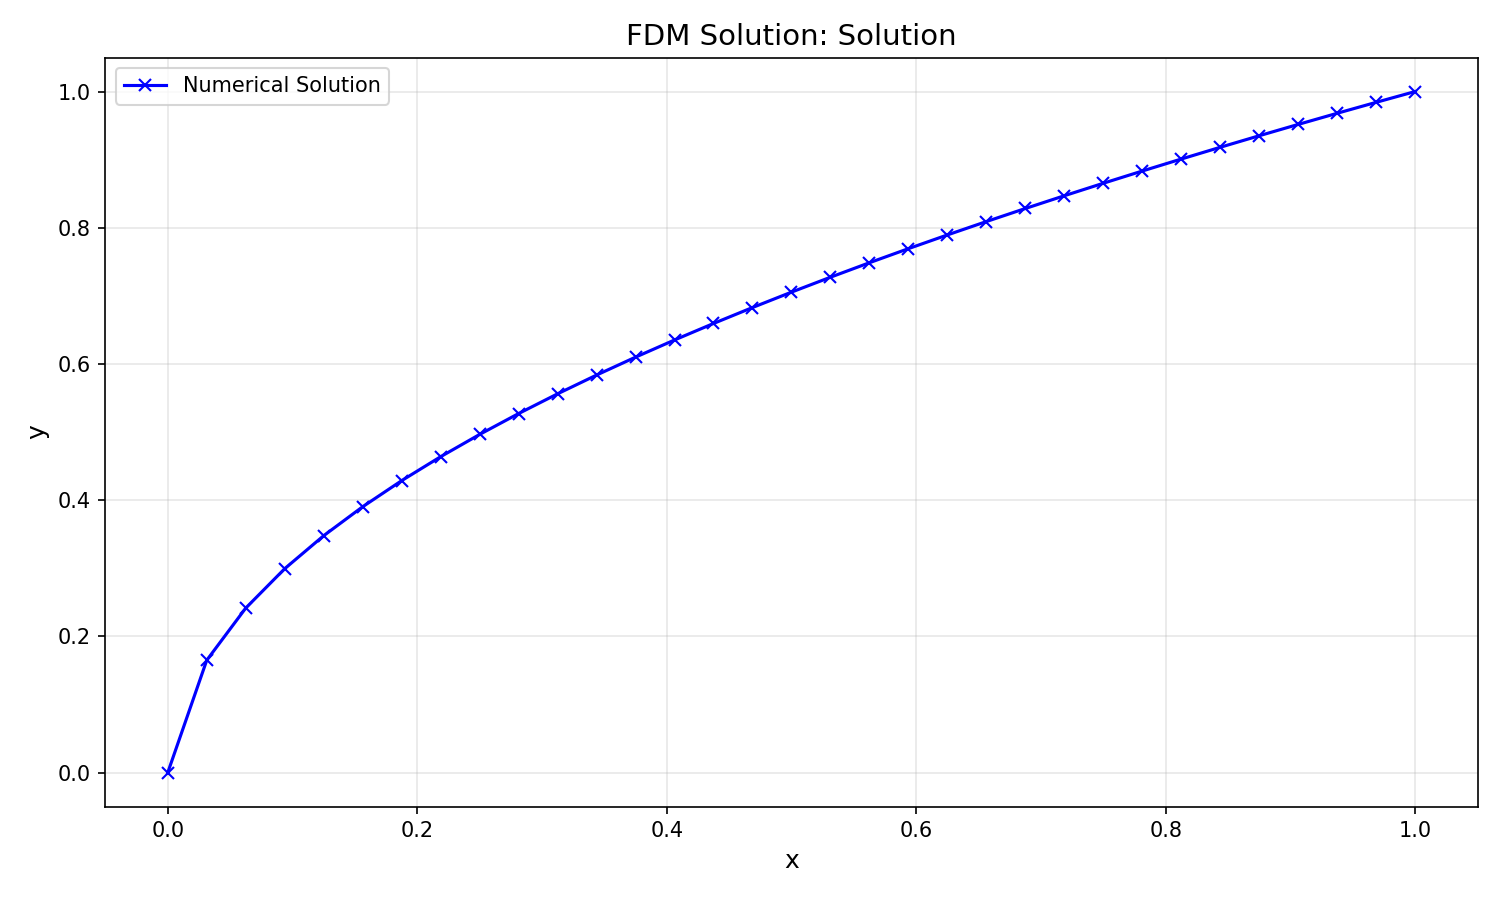
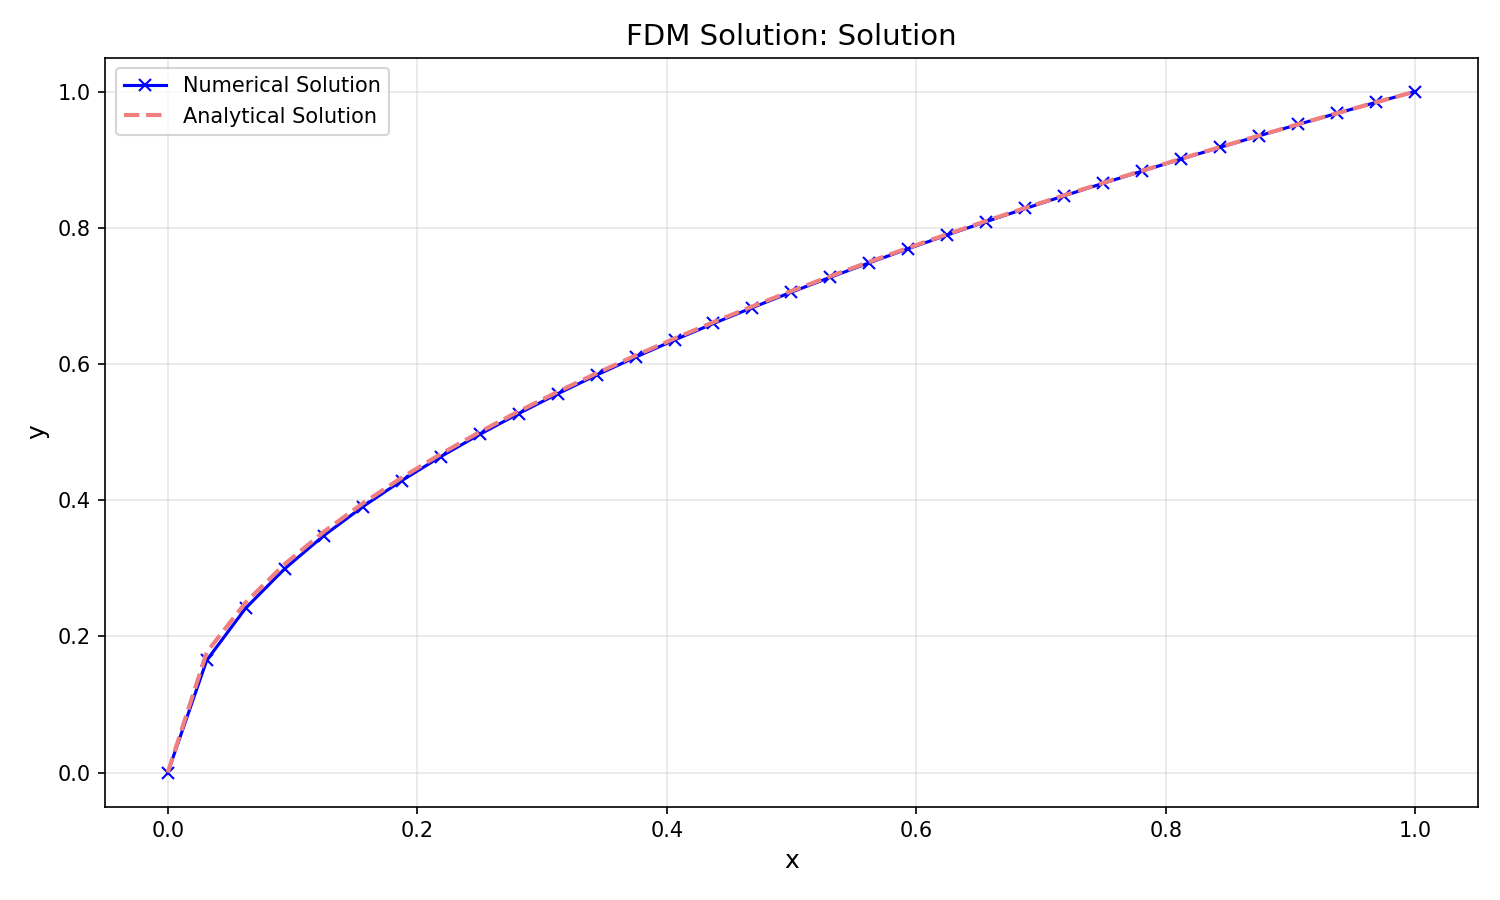
added approxiaation for Fy and Fyp

diff --git a/Project2/analysis/stability.py b/Project2/analysis/stability.py
@@ -6,7 +6,7 @@ from core.Residual import Residual
 from core.Jacobian import Jacobian
 from core.Function_Generator import Function_Generator
 from core.Boundary_Conditions import Boundary_Conditions
-
+from core.FDM_Solver import FDM_Solver
 
 class StabilitySolver:
     def __init__(self, F, Fy, Fyp, N, domain, BC, w0=None):
@@ -22,7 +22,14 @@ class StabilitySolver:
         self.x = np.linspace(a, b, self.N + 1)
         self.h = (b - a) / self.N
 
+        fdmsolver = FDM_Solver(N,domain,F, Fy, Fyp, BC)
         bc = Boundary_Conditions(BC)
+
+        if(Fy is None):
+            Fy = fdmsolver._approx_Fy
+        if(Fyp is None):
+            Fyp = fdmsolver._approx_Fyp
+
         self.left_bc_jac = bc.build_left_bc_jac(Fy, Fyp, self.x[0])
         self.right_bc_jac = bc.build_right_bc_jac(Fy, Fyp, self.x[-1])
         self.left_bc_res = bc.build_left_bc_res(F, self.x[0])
@@ -311,7 +318,7 @@ class StabilitySolver:
 
     
     @staticmethod
-    def plot_fdm_all(hist_fdm, out_path="Plots/FDM_all_metrics.png"):
+    def plot_fdm_all(hist_fdm, out_path="outputs/plots/FDM_all_metrics.png"):
         k_res = np.arange(len(hist_fdm["res_2"]), dtype=float)
         k_cond = np.arange(len(hist_fdm["cond2"]), dtype=float)
         k_sig = np.arange(len(hist_fdm["sigma_min"]), dtype=float)

diff --git a/Project2/main.py b/Project2/main.py
@@ -8,11 +8,10 @@ import os
 import sys
 import matplotlib.pyplot as plt
 from pathlib import Path
-
 from core.Loader import load_config
 from core.FDM_Solver import FDM_Solver
-from Project2.analysis.Convergence import ConvergenceStudy
-from Project2.analysis.stability import StabilitySolver
+from analysis.Convergence import ConvergenceStudy
+from analysis.stability import StabilitySolver
 
 def print_separator(char="=", length=70):
     """Print a separator line."""
@@ -315,9 +314,10 @@ def main():
         pass
     
     if do_stability:
-        stab_solver = StabilitySolver(N=N, domain=domain, F=F_func, Fy=Fy_func, Fyp=Fyp_func, BC=BC)
-        w, hist_fdm, hist_sh = stab_solver.solve_fdm(verbose=True)
-        if(input("\nPlot stability metrics? (y/n): ").lower() == 'y'):
+        stab_solver = StabilitySolver(F_func, Fy_func, Fyp_func, N, domain, BC)
+        w, it_fdm, hist_fdm = stab_solver.solve_fdm(verbose=True)
+
+        if input("\nPlot stability metrics? (y/n): ").strip().lower() == "y":
             stab_solver.plot_fdm_all(hist_fdm)
     
     if do_convergence is None:

diff --git a/Project2/analysis/Convergence.py b/Project2/analysis/Convergence.py
@@ -1,7 +1,7 @@
 import numpy as np
 import pandas as pd
 import matplotlib.pyplot as plt
-from Project2.core.FDM_Solver import FDM_Solver
+from core.FDM_Solver import FDM_Solver
 
 class ConvergenceStudy:
     """
